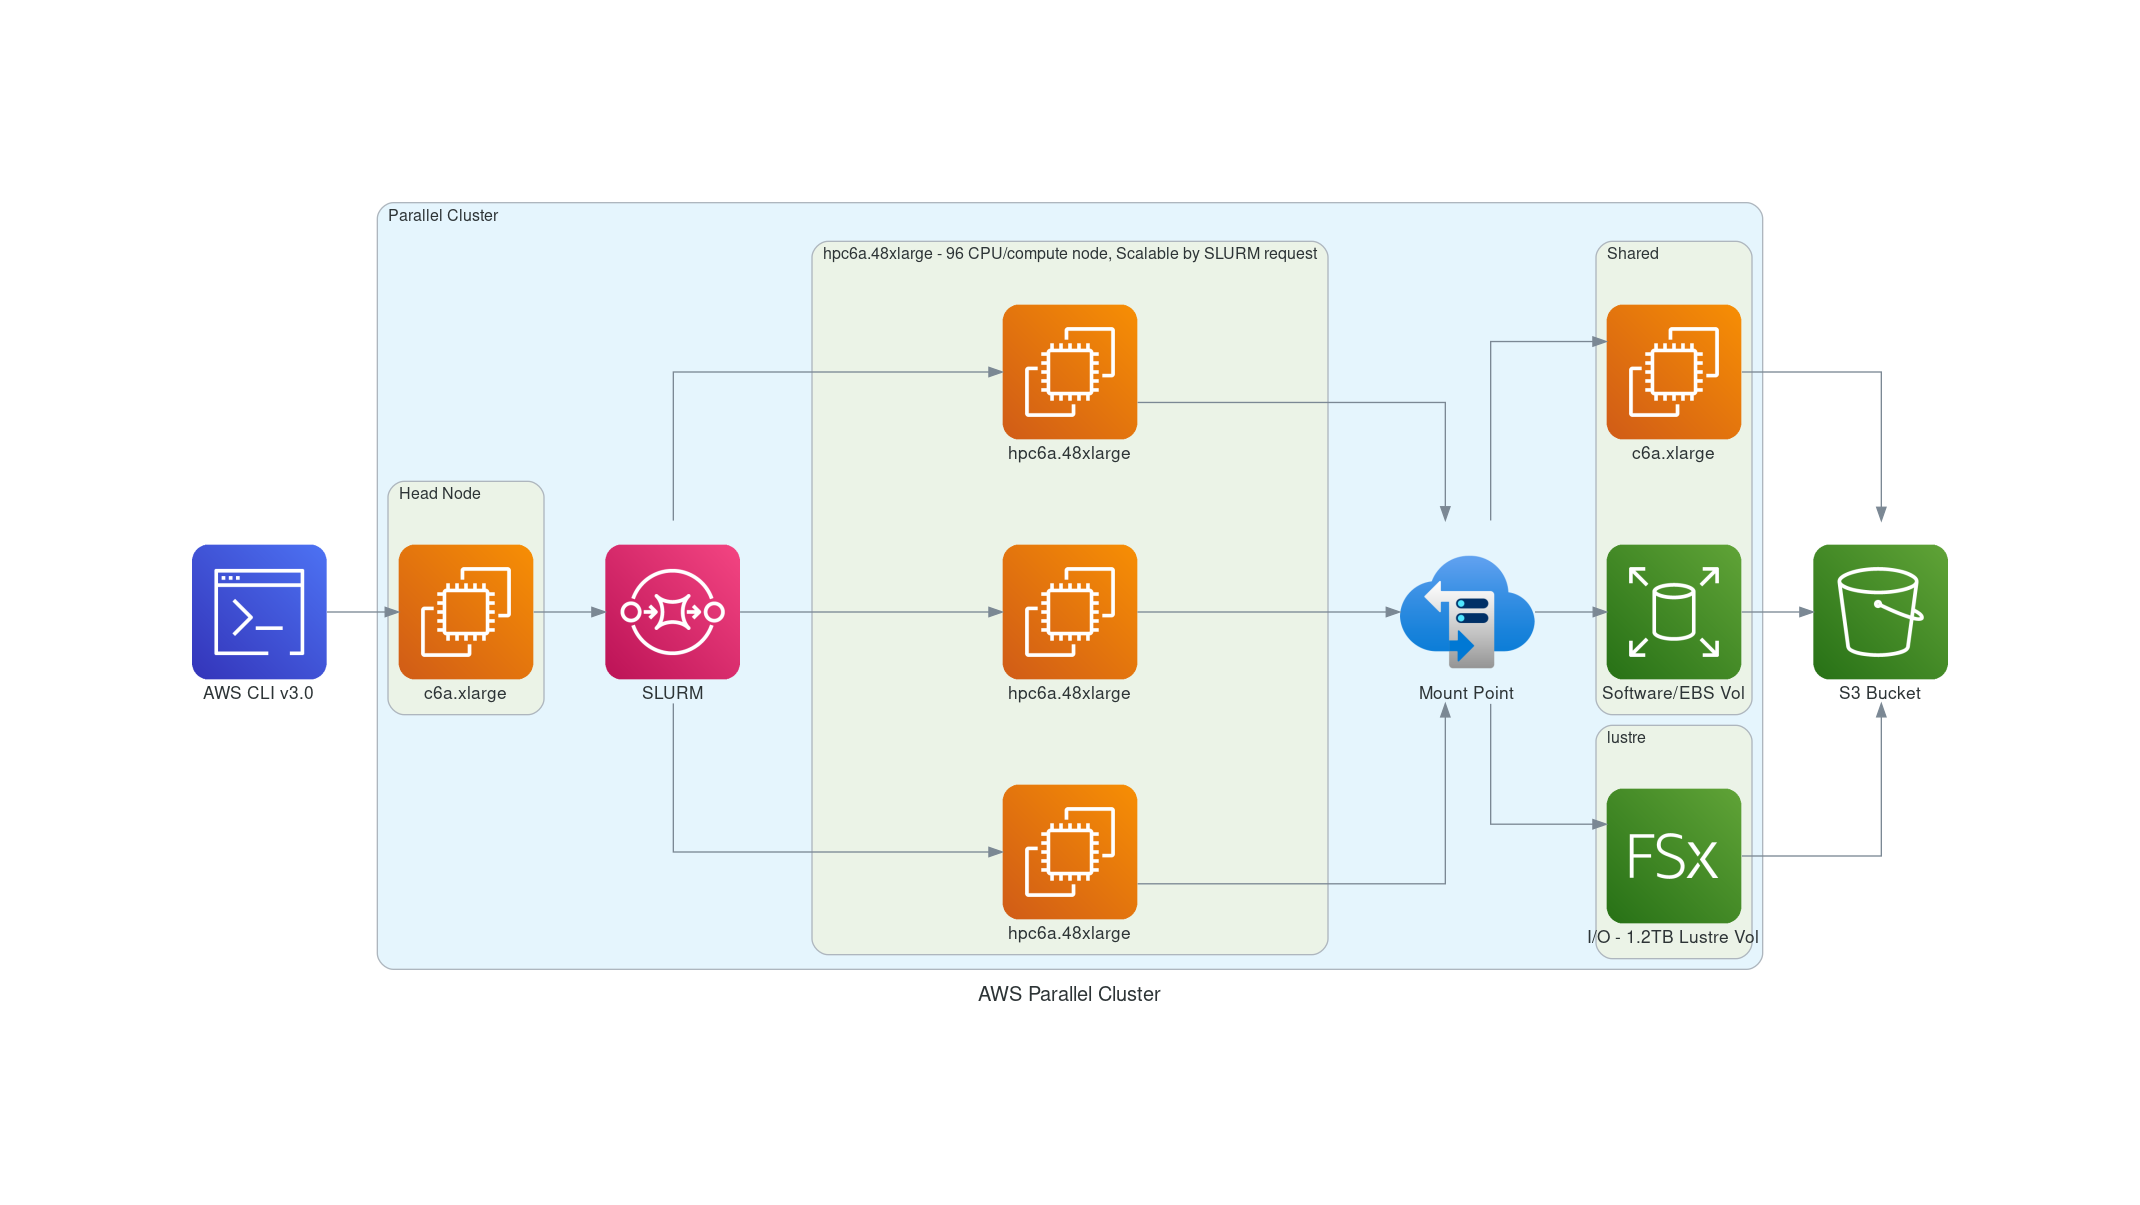
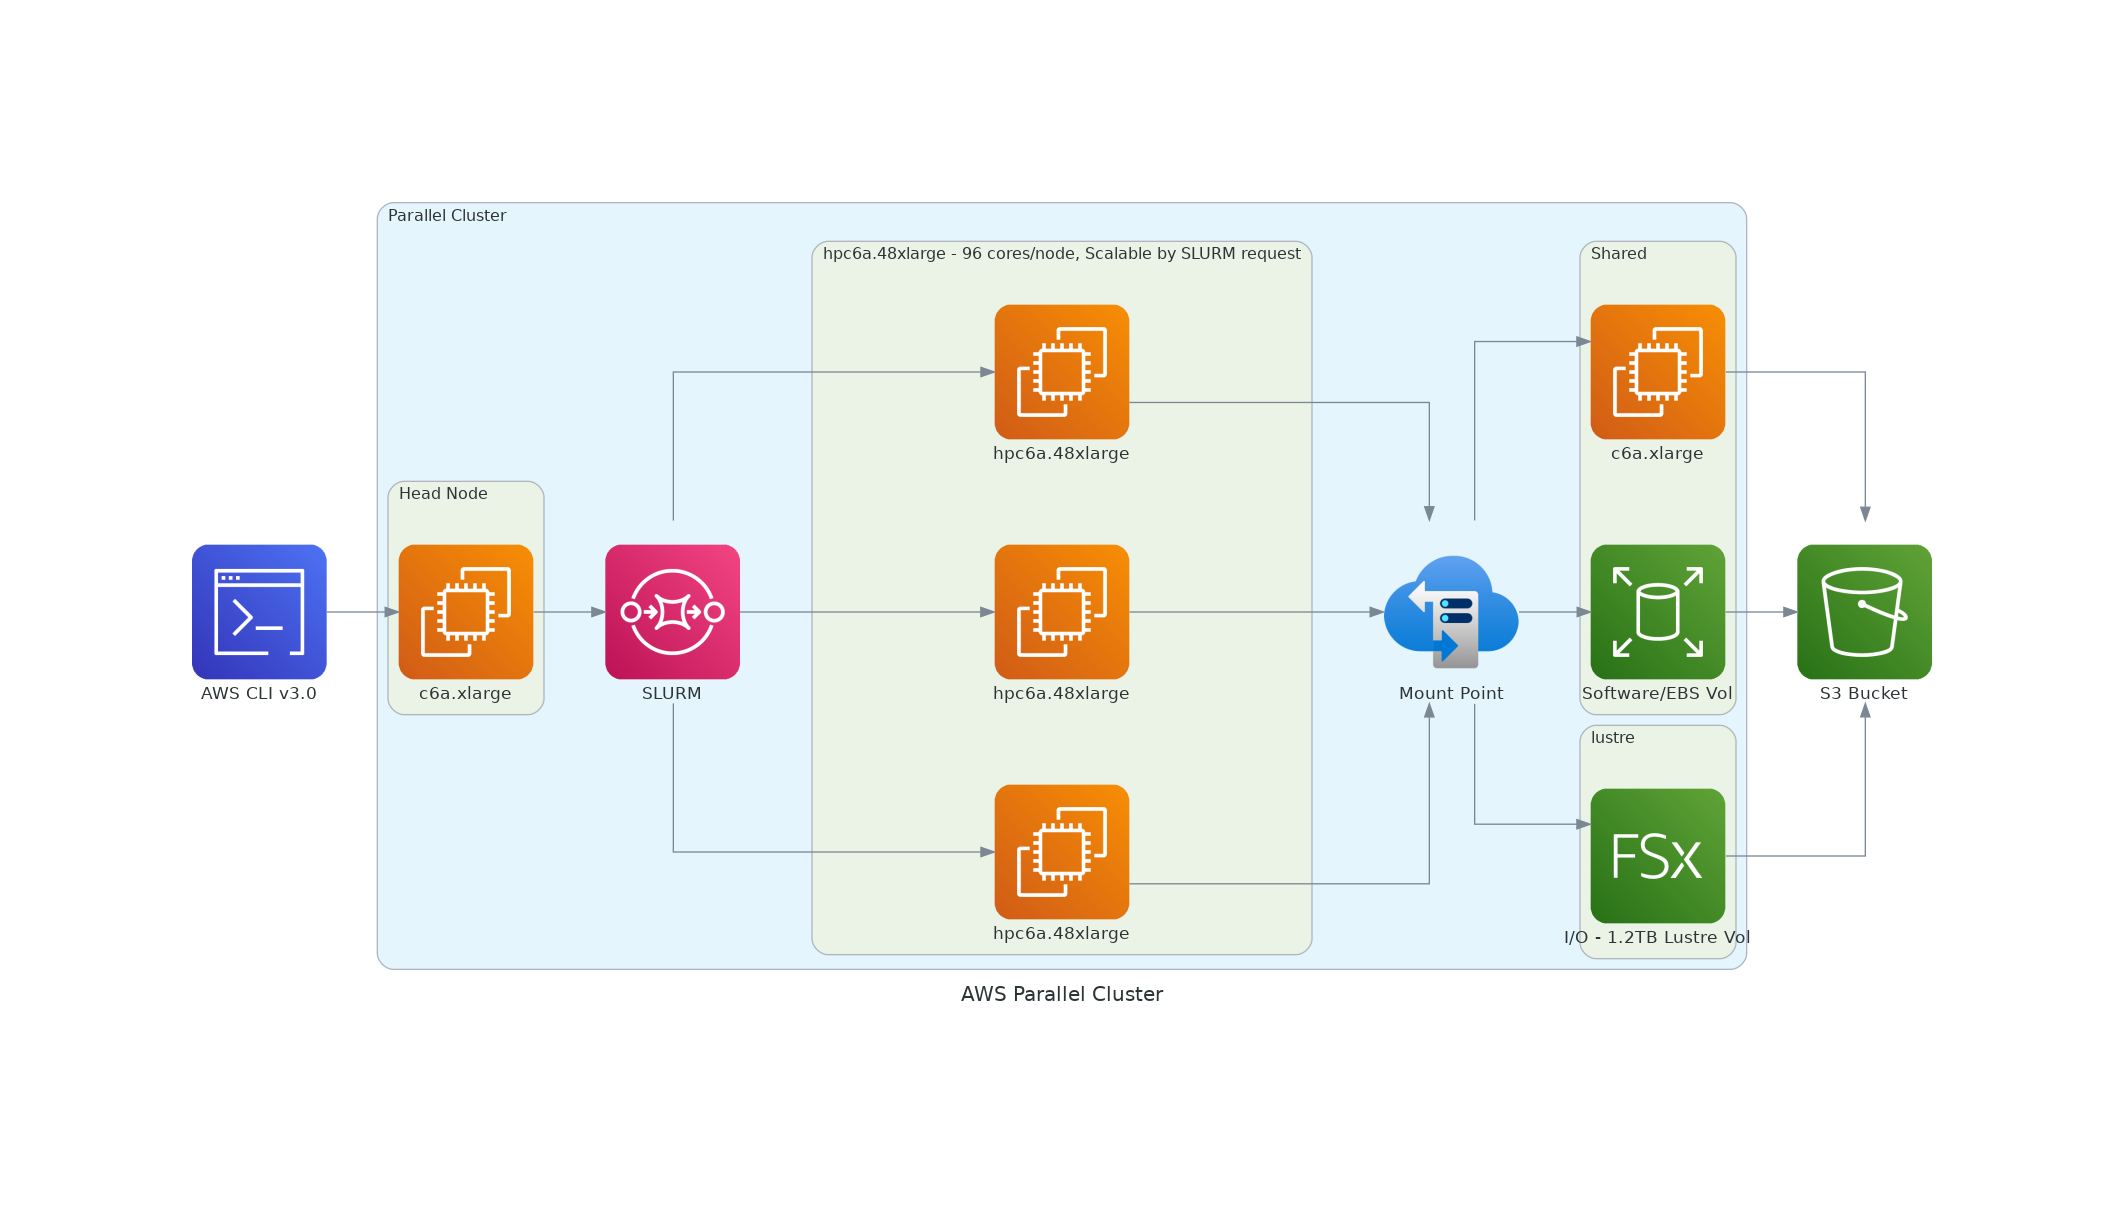
update

diff --git a/docs/diagrams/nested_clusters_pcluster.py b/docs/diagrams/nested_clusters_pcluster.py
@@ -16,7 +16,7 @@ with Diagram("AWS Parallel Cluster", show=False):
         with Cluster("Head Node"):
             head = [EC2("c6a.xlarge")]
 
-        with Cluster("hpc6a.48xlarge - 96 CPU/compute node, Scalable by SLURM request"):
+        with Cluster("hpc6a.48xlarge - 96 cores/node, Scalable by SLURM request"):
             workers = [EC2("hpc6a.48xlarge"),
                         EC2("hpc6a.48xlarge"),
                         EC2("hpc6a.48xlarge")]

diff --git a/docs/diagrams/nested_clusters_pcluster_hpc7g.py b/docs/diagrams/nested_clusters_pcluster_hpc7g.py
@@ -16,7 +16,7 @@ with Diagram("AWS Parallel Cluster", show=False):
         with Cluster("Head Node"):
             head = [EC2("c7g.large")]
 
-        with Cluster("hpc7g.16xlarge - 64 CPU/compute node, Scalable by SLURM request"):
+        with Cluster("hpc7g.16xlarge - 64 cores/node, Scalable by SLURM request"):
             workers = [EC2("hpc7g.16xlarge"),
                         EC2("hpc7g.16xlarge"),
                         EC2("hpc7g.16xlarge")]
